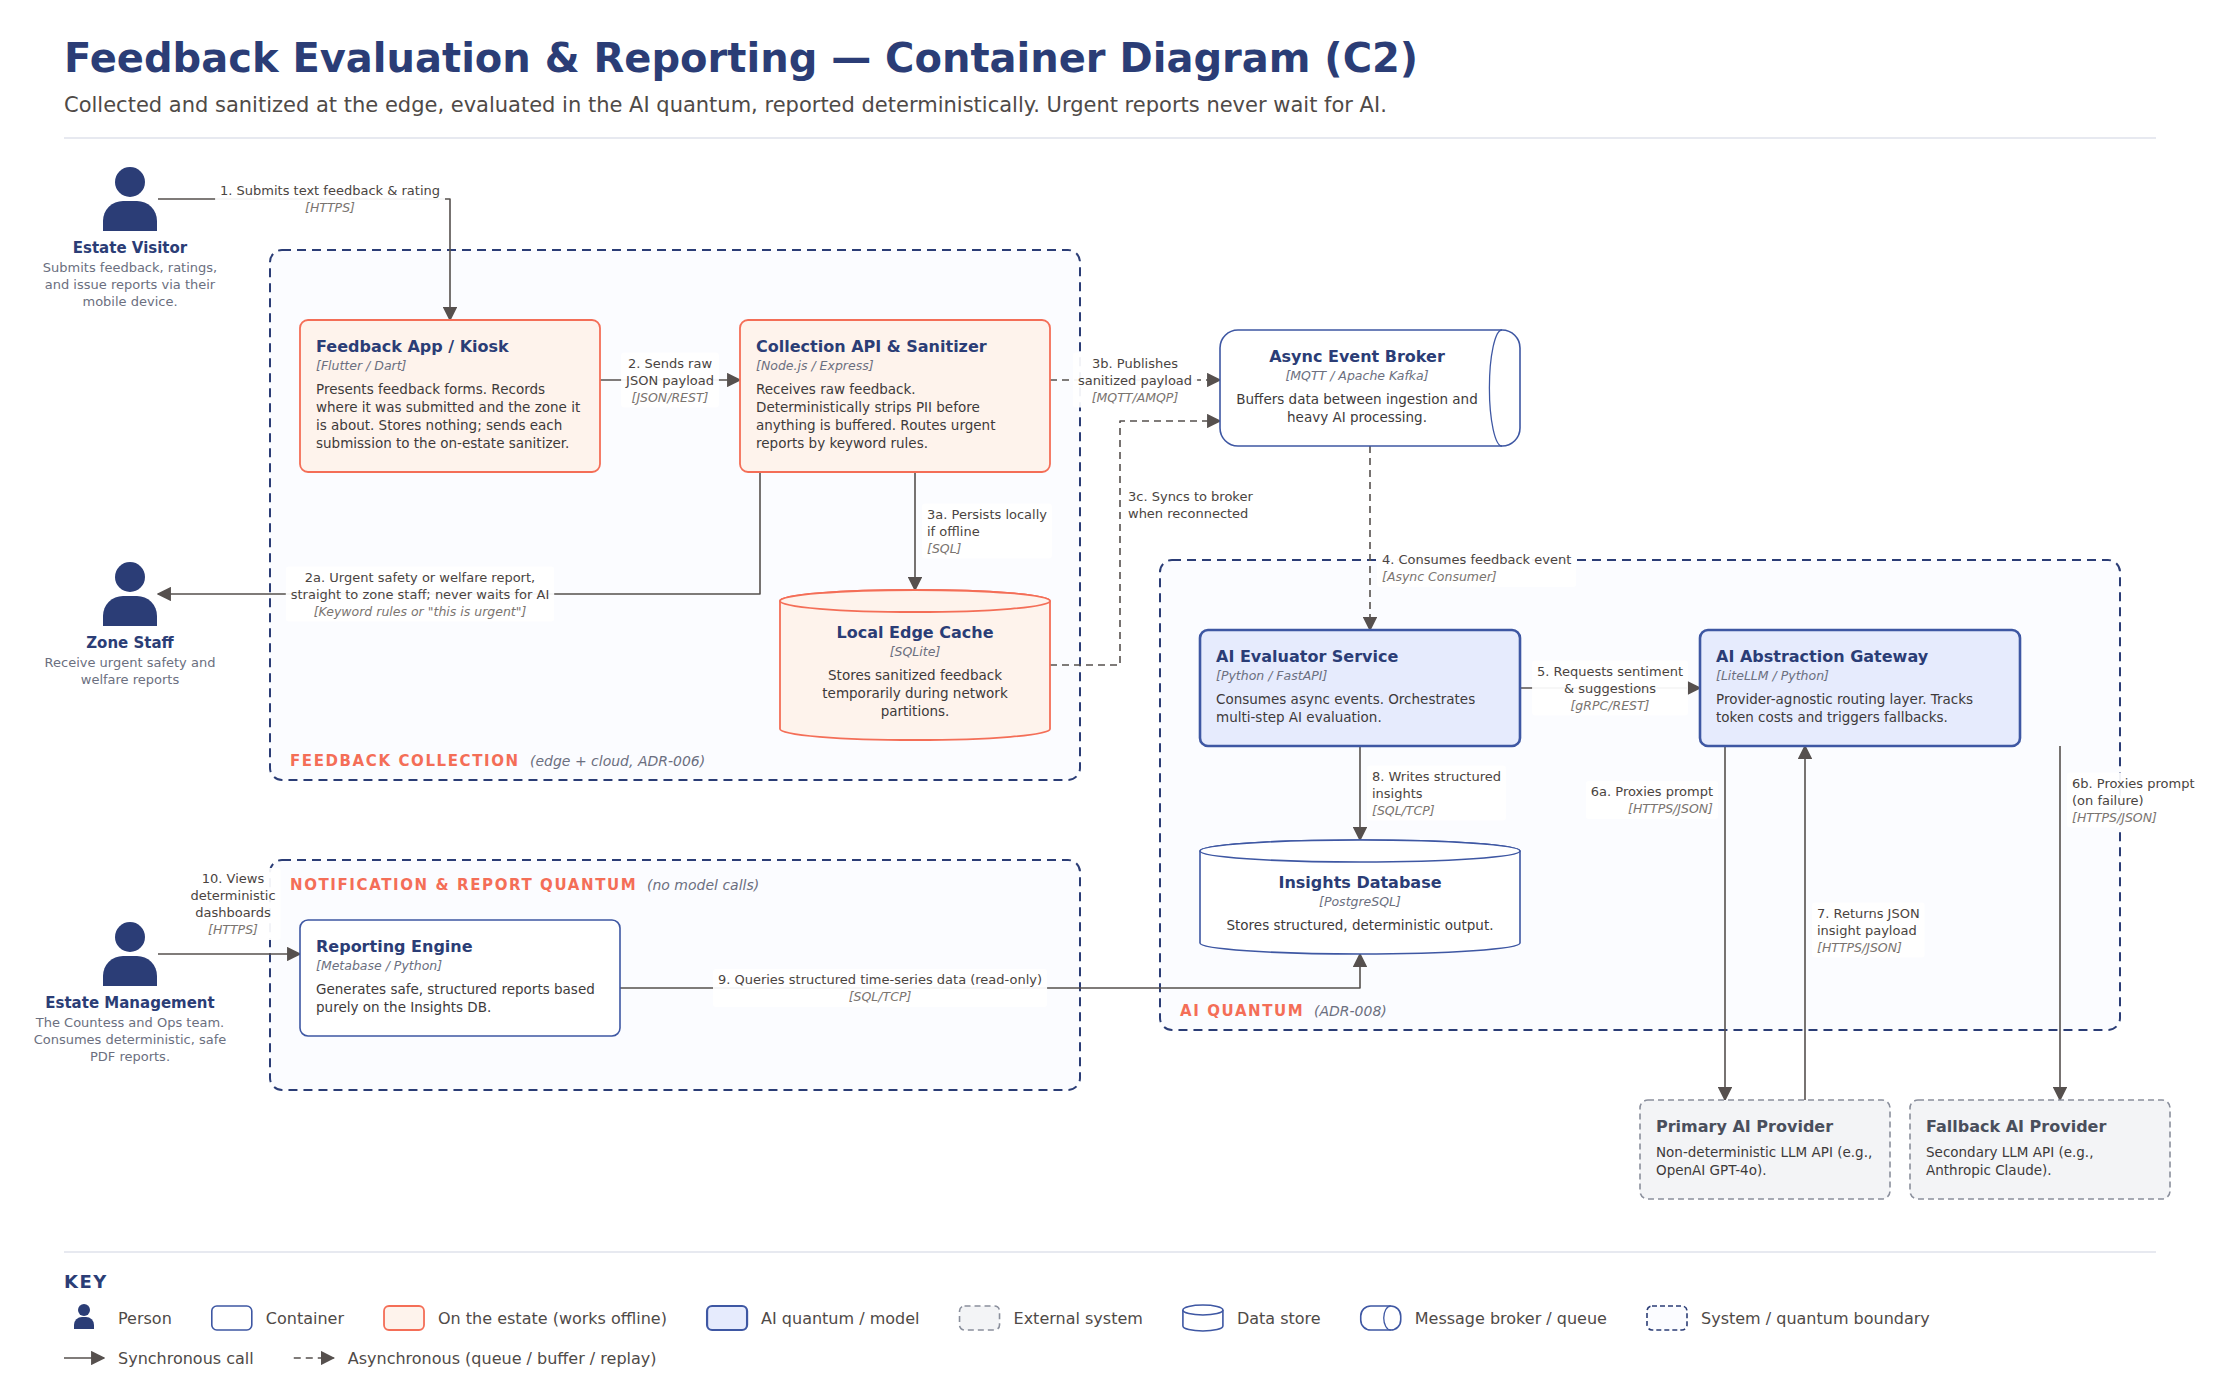
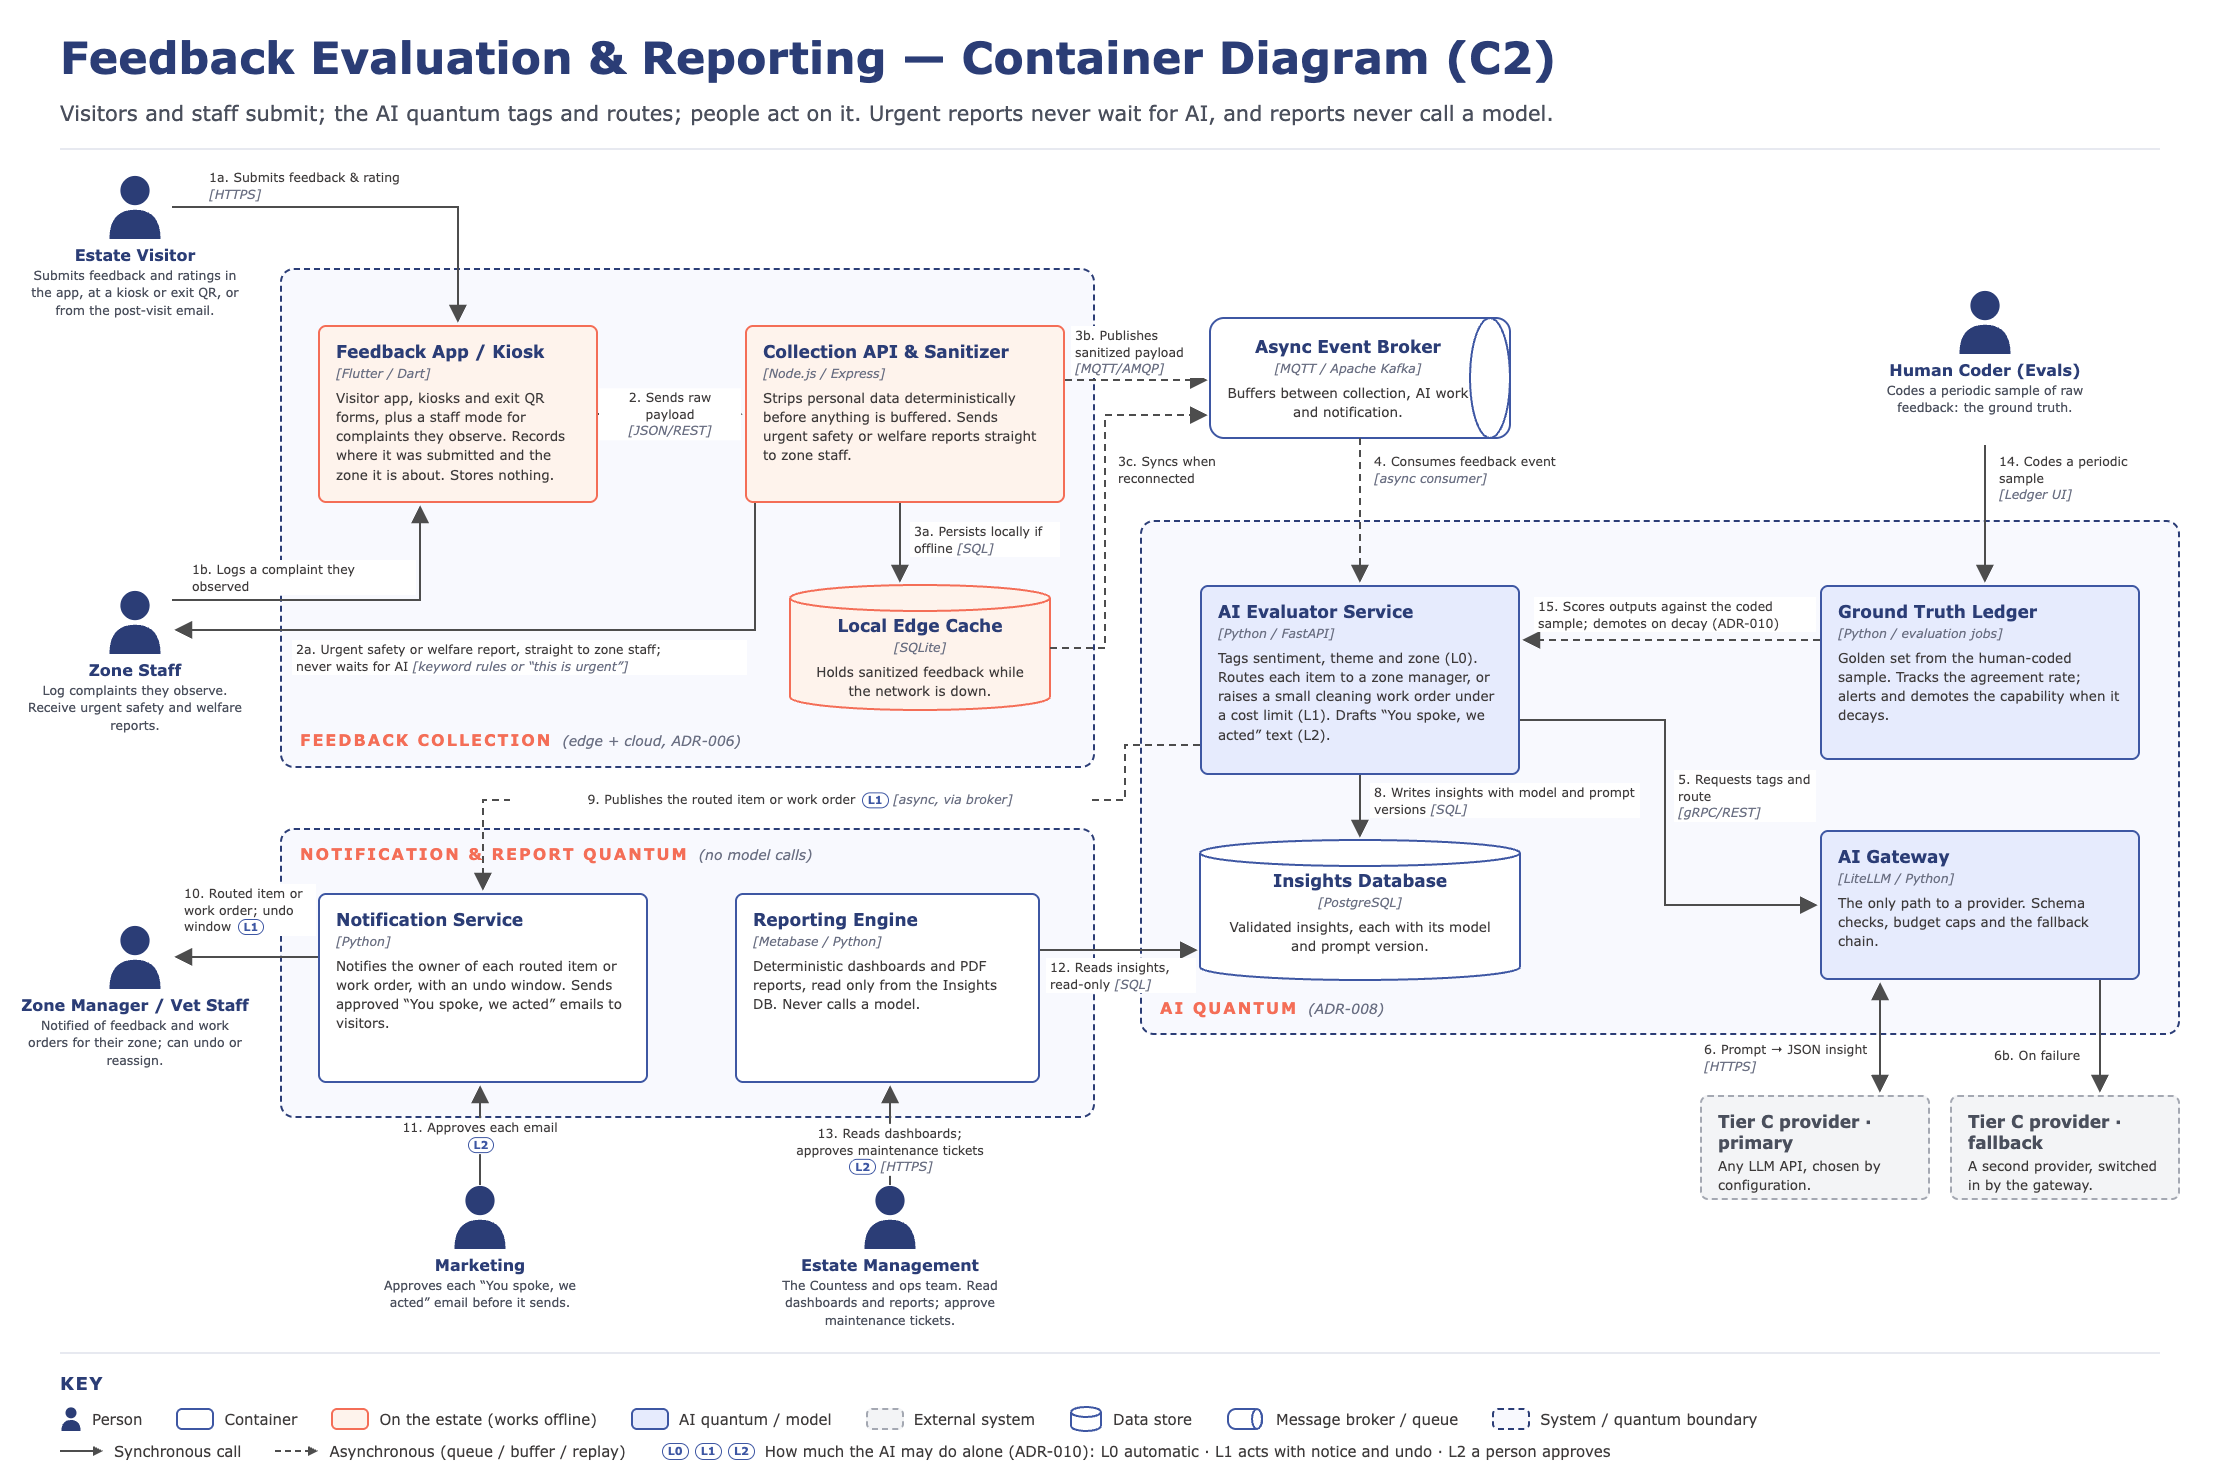
feat: updated feedback C2

diff --git a/ADR/adr-006-ai-feedback-evaluation-and-reporting.md b/ADR/adr-006-ai-feedback-evaluation-and-reporting.md
@@ -84,6 +84,7 @@ We will implement the feedback pipeline as three modules with clear ownership. *
 *   Manage AI model routing, failovers, and token cost tracking.
 *   Parse non-deterministic JSON responses into structured data.
 *   Persist structured insights to the Insights DB.
+*   Route each item to the zone manager or vet staff for its zone, or raise a small cleaning work order under a cost limit. The Notification Service tells the owner, who can undo it (L1, [ADR-010](adr-010-ai-authority-by-risk.md)).
 
 ### 3. Deterministic Reporting Module
 **Responsibilities:**
@@ -186,3 +187,4 @@ Due to unreliable Wi-Fi across the sprawling estate, the Edge Collection module 
   - Added the two zone fields and the separate urgent-safety path.
   - Added the Enforcement section.
 - 2026-10-08: Data Ownership corrected to match the offline flow: raw feedback is never persisted, and only sanitized payloads go to the Local Edge SQLite Cache. Offline handling no longer refers to the replaced unified quantum, and the Option 1 diagram now shows the urgent-report path. Decision unchanged.
+- 2026-10-09: Routing to zone managers and vet staff (L1, through the Notification Service) added to the AI Evaluation module, to match ADR-010 and the redrawn C2. Decision unchanged.
